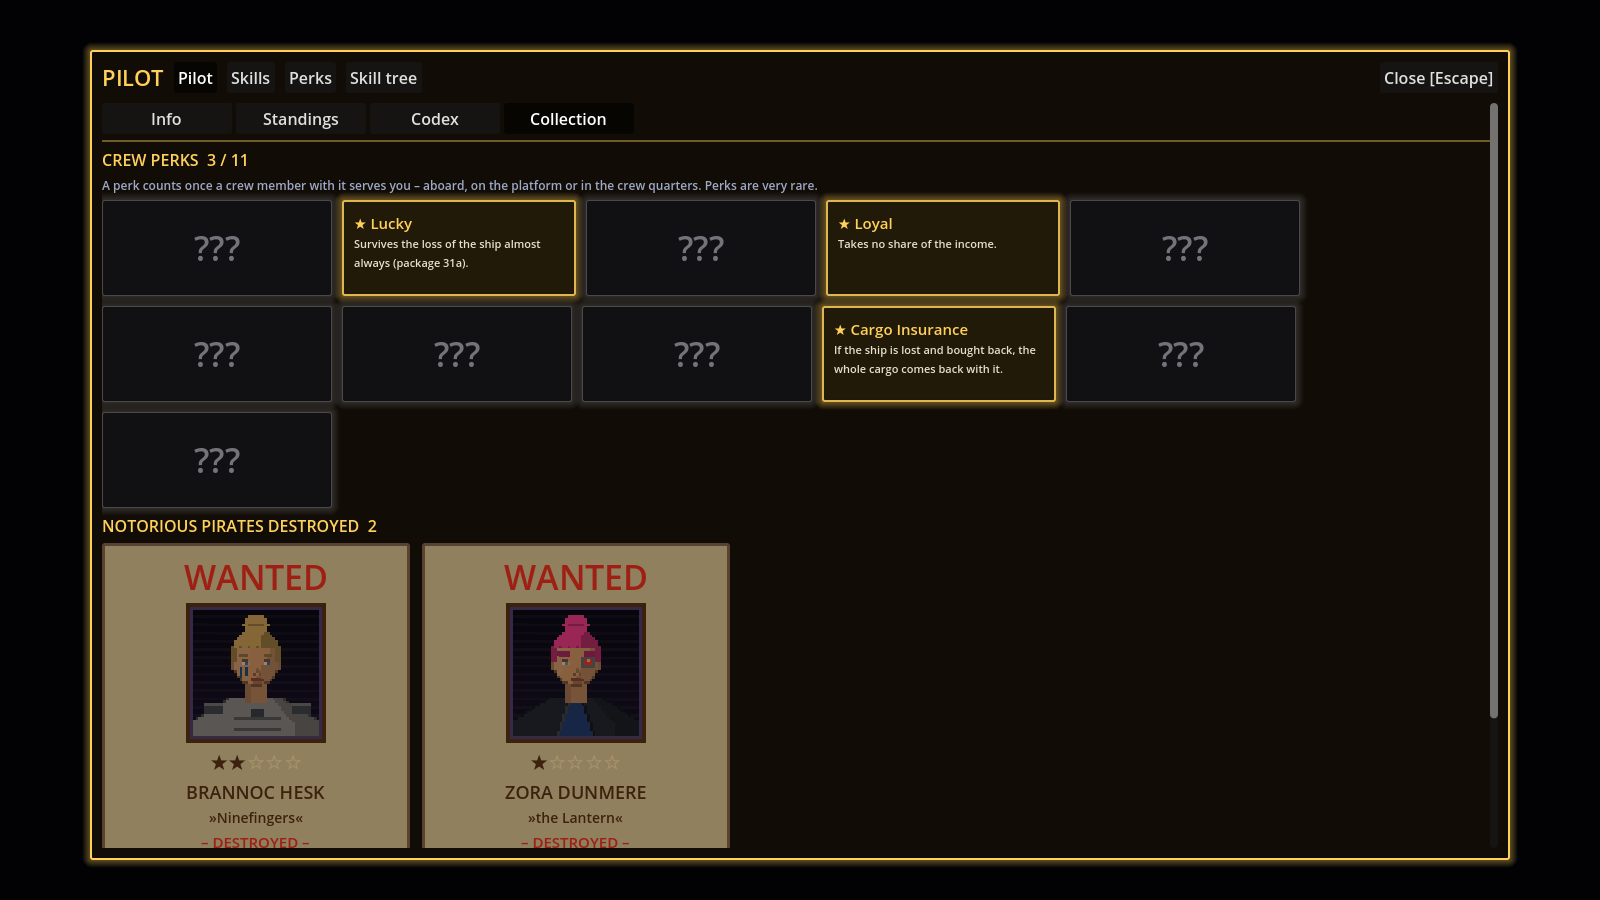
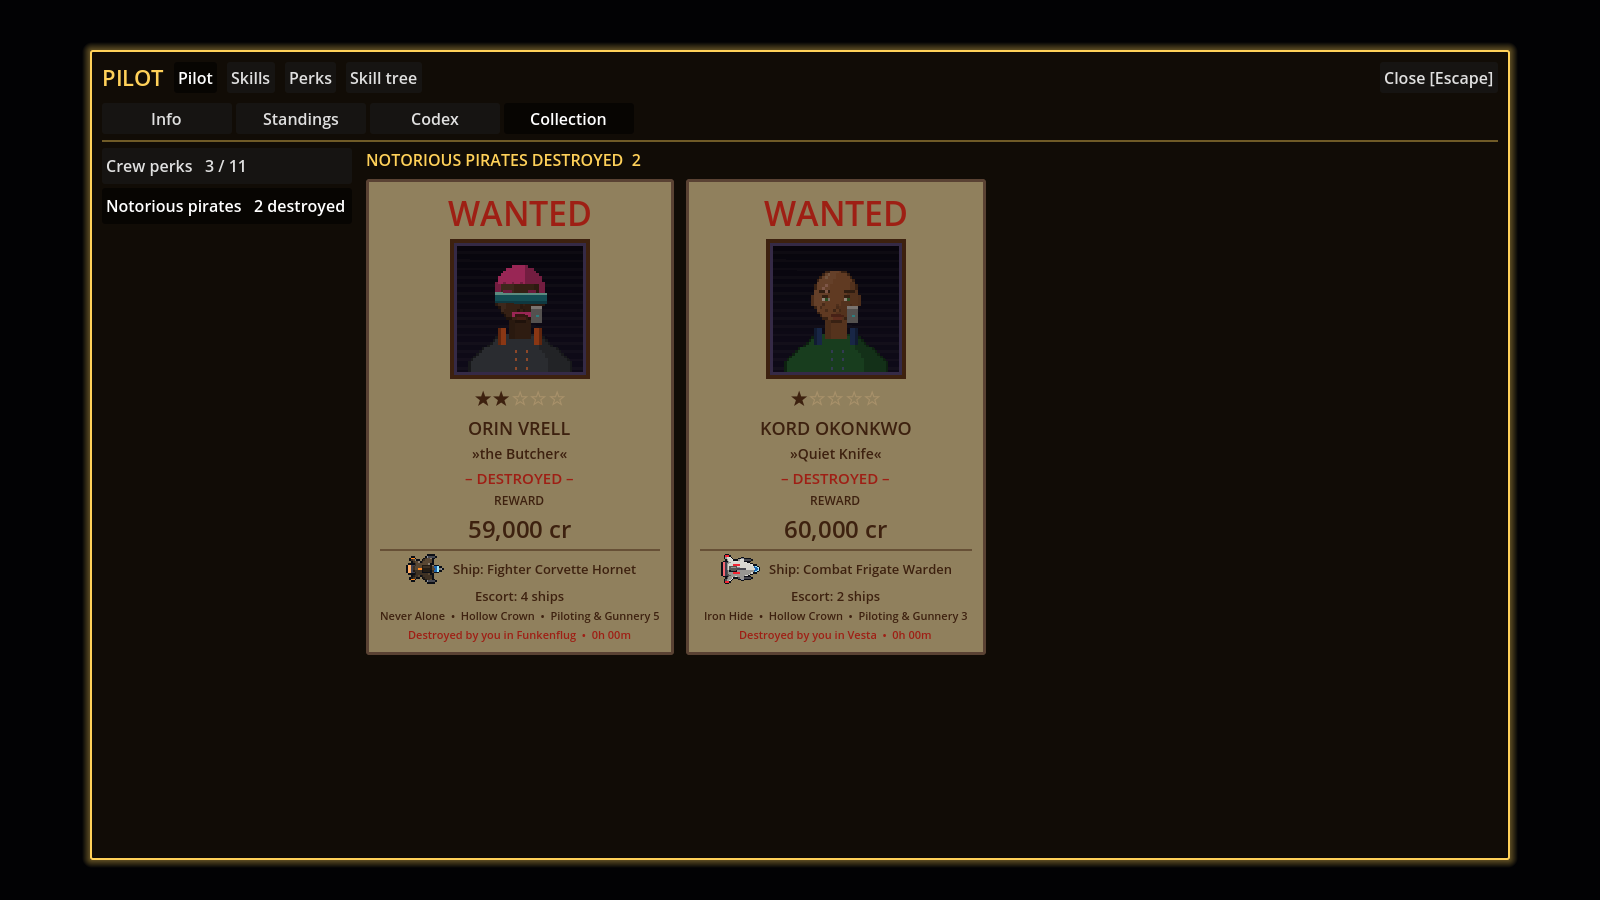
alpha 0.5.34.3: collection categories as a button list

diff --git a/Roadmap.md b/Roadmap.md
@@ -17,7 +17,7 @@ Sternenfront ist ein Einzelspieler-Spiel mit zuschaltbarem Koop – wie Valheim 
 
 ## Aktueller Stand
 
-Das Spiel ist ein umfangreicher Einzelspieler-Prototyp in Godot 4.3. Phase 0 und Phase 0.5 Teil 1 bis 3 sind abgeschlossen; Teil 4 (Module and Internal Ship Parts Rework) läuft – Pakete 19 bis 24 fertig, Pakete 25a (KHI-Bergbauschiffe), 25b (Kanayama-maru), 25c (Maison Aurelle), 25d (Hadrian Dynamics), 25e (Concord Fleetworks), 25f (Forge of Return) und 25g (Axiom Astronautics) fertig – damit sind alle Manufakturen gebaut; Paket 26 (Stationstyp 0: Raststationen mit Landeplattformen) fertig; Paket 27 (Stationsübersicht, Ausrüster, Kurzbeschreibungen, Geschwindigkeit) fertig – damit sind alle Pakete von Teil 4 umgesetzt. Code-Review von Teil 4 gemacht (Bericht `reviews/teil4_review.md`), alle Befunde sind abgearbeitet (0.4.25.46 und 0.4.25.47) – Teil 4 abgeschlossen. **Teil 5 läuft:** Paket 28a (Audio-Grundgerüst), die Menüsteuerung per Tastatur und Paket 28 (Pilot & Charaktererstellung) und Paket 29 (Fähigkeiten + Pilot-Fenster) fertig, Fortschritts-Mechanik am 7. Nov neu entschieden (Fähigkeiten automatisch, Pilotenlevel, Perks, Skilltree über Leistungen); Paket 30 (Perks, Skilltree über Leistungen, Baupläne) fertig und der Skilltree in 0.5.30.2 als gezeichneter Baum nach Tätigkeiten neu gebaut (alles kaufbar, nutzbar erst mit Kachel), Paket 31 (Crew-System & The Bar, mit 32 zusammengelegt) fertig, Paket 31a (Game Over: Rettungskapseln, Rückkauf, Respawn) fertig, Paket 33 (Wingmen und Citadel-Plattform) fertig, Paket 34 (Codex-Einträge, Sammlung, berüchtigte Piraten als Charaktere mit Wild-West-Steckbrief) fertig – damit sind alle Pakete von Teil 5 umgesetzt; offen ist das kleine Code-Review am Ende des Teils. Netzwerk fehlt noch. Teile 5–9 sind geplant (aus dem Roadmap-Entwurf übernommen, zuletzt am 7. Nov 2026: Teile 8 und 9, Audio-Grundgerüst 28a, Lade-Grundlagen in Paket 35, Code-Review am Ende jedes Teils), Phase 1 und 2 getauscht (erst Story & Endgame, dann Koop). Version alpha 0.5.34.2. Stand 8. November 2026.
+Das Spiel ist ein umfangreicher Einzelspieler-Prototyp in Godot 4.3. Phase 0 und Phase 0.5 Teil 1 bis 3 sind abgeschlossen; Teil 4 (Module and Internal Ship Parts Rework) läuft – Pakete 19 bis 24 fertig, Pakete 25a (KHI-Bergbauschiffe), 25b (Kanayama-maru), 25c (Maison Aurelle), 25d (Hadrian Dynamics), 25e (Concord Fleetworks), 25f (Forge of Return) und 25g (Axiom Astronautics) fertig – damit sind alle Manufakturen gebaut; Paket 26 (Stationstyp 0: Raststationen mit Landeplattformen) fertig; Paket 27 (Stationsübersicht, Ausrüster, Kurzbeschreibungen, Geschwindigkeit) fertig – damit sind alle Pakete von Teil 4 umgesetzt. Code-Review von Teil 4 gemacht (Bericht `reviews/teil4_review.md`), alle Befunde sind abgearbeitet (0.4.25.46 und 0.4.25.47) – Teil 4 abgeschlossen. **Teil 5 läuft:** Paket 28a (Audio-Grundgerüst), die Menüsteuerung per Tastatur und Paket 28 (Pilot & Charaktererstellung) und Paket 29 (Fähigkeiten + Pilot-Fenster) fertig, Fortschritts-Mechanik am 7. Nov neu entschieden (Fähigkeiten automatisch, Pilotenlevel, Perks, Skilltree über Leistungen); Paket 30 (Perks, Skilltree über Leistungen, Baupläne) fertig und der Skilltree in 0.5.30.2 als gezeichneter Baum nach Tätigkeiten neu gebaut (alles kaufbar, nutzbar erst mit Kachel), Paket 31 (Crew-System & The Bar, mit 32 zusammengelegt) fertig, Paket 31a (Game Over: Rettungskapseln, Rückkauf, Respawn) fertig, Paket 33 (Wingmen und Citadel-Plattform) fertig, Paket 34 (Codex-Einträge, Sammlung, berüchtigte Piraten als Charaktere mit Wild-West-Steckbrief) fertig – damit sind alle Pakete von Teil 5 umgesetzt; offen ist das kleine Code-Review am Ende des Teils. Netzwerk fehlt noch. Teile 5–9 sind geplant (aus dem Roadmap-Entwurf übernommen, zuletzt am 7. Nov 2026: Teile 8 und 9, Audio-Grundgerüst 28a, Lade-Grundlagen in Paket 35, Code-Review am Ende jedes Teils), Phase 1 und 2 getauscht (erst Story & Endgame, dann Koop). Version alpha 0.5.34.3. Stand 8. November 2026.
 
 | Bereich | Stand |
 | --- | --- |
@@ -1394,7 +1394,7 @@ Athletics und Firearms haben in Teil 5 kaum Nutzen – bewusst so entschieden, s
 
 - [x] **Berüchtigte Piraten sind Charaktere:** jeder hat ein Gesicht (Porträt-Baukasten) und **Piloting & Gunnery**, die mit den Sternen wachsen (Grundwert 1–3 + 2 je Stern, höchstens 12) und als +1 % Tempo / Schaden je Stufe auf ihr Schiff wirken.
 - [x] **Wanted-Steckbrief** im Bond Office: Papier-Optik, groß „WANTED“, der **Mugshot** im Rahmen, die Sterne (rote = überrannte Stationen), Name und Spitzname, **„DEAD OR ALIVE“**, „REWARD“ mit der Summe, darunter Schiff (seit 0.5.34.2 mit dem Schiffs-Icon in der Lackierung des Kapitäns), Eskorte, Eigenschaft, Fraktion, Fähigkeit, zuletzt gesehen und „Set course“. Tote Kapitäne: ausgeblichen, „– DESTROYED –“.
-- [x] **Sammlung** (Pilot-Fenster → Pilot → **Collection**): **Crew-Perks** als Kacheln – ein Perk zählt, sobald ein Crewmitglied mit ihm dir dient (an Bord, auf der Plattform, im Crew-Quartier); fehlende ergraut mit „???“. Darunter die **erlegten berüchtigten Piraten** als Steckbrief mit Mugshot, Sternen, Schiff, Belohnung, wo und wann.
+- [x] **Sammlung** (Pilot-Fenster → Pilot → **Collection**; seit 0.5.34.3 links die Kategorien als Knopf-Liste, rechts die gewählte): **Crew-Perks** als Kacheln – ein Perk zählt, sobald ein Crewmitglied mit ihm dir dient (an Bord, auf der Plattform, im Crew-Quartier); fehlende ergraut mit „???“. Darunter die **erlegten berüchtigten Piraten** als Steckbrief mit Mugshot, Sternen, Schiff, Belohnung, wo und wann.
 - [x] **Codex:** neue Kategorie **Pilot & Crew** mit 8 Einträgen (Fähigkeiten & Pilotenlevel, Perks, Skilltree, Crew, Wingmen, Citadel-Plattform, Schiffsverlust, Sammlung); die neuen schalten sich beim **ersten Kontakt** frei (erstes Schiff mit Crew, erster Wingman, erste Plattform, erster Verlust, erstes Sammelstück) und erscheinen als „New Codex entry“.
 - [x] Entwickler-Notizen aus Perk-Texten entfernt. **Balancing der Boni** bleibt beim Skilltree-/Balancing-Durchgang in Teil 9 (72a).
 

diff --git a/CHANGELOG.md b/CHANGELOG.md
@@ -3,6 +3,10 @@
 Versions follow **alpha Phase.Teil.Paket.laufende Nummer** (see Roadmap.md → Arbeitsweise & Übergabe).
 Every update gets its own entry, a commit and a git tag `v<version>`.
 
+## alpha 0.5.34.3 – 2026-11-08
+
+**Collection:** the categories as a list of buttons on the left, the chosen one on the right.
+
 ## alpha 0.5.34.2 – 2026-11-08
 
 **Wanted posters:** the ship's icon (in the captain's paint) beside the ship's name.
